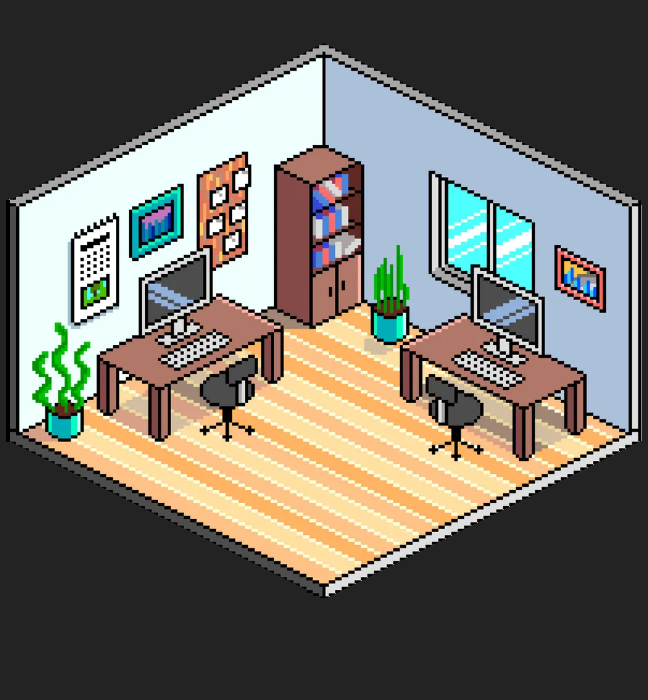
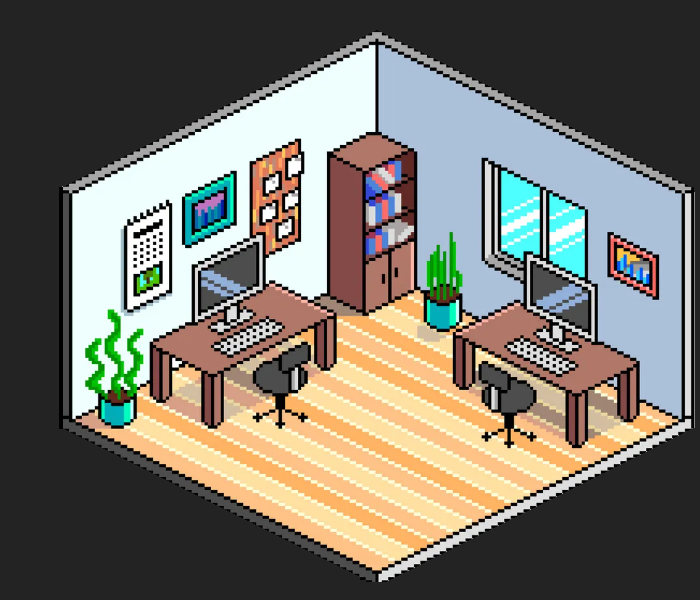
[FE] Add: 타자 게임 디버깅, 디자인

diff --git a/front/src/features/unity/components/Level1.tsx b/front/src/features/unity/components/Level1.tsx
@@ -1,0 +1,79 @@
+import React from 'react';
+import styled from 'styled-components';
+const Unity = styled.div`
+  display: flex;
+  justify-content: center;
+  align-items: center;
+  width: 60%;
+  background-color: #232323;
+  background-image: url(/img/MyOffice/level1.png);
+  background-repeat: no-repeat;
+  background-size: 90%;
+  /* background-size: 70%; */
+  background-position-y: 50%;
+`;
+const MyComputer = styled.img`
+  width: 7%;
+  height: 15%;
+  position: absolute;
+  bottom: 20vh;
+  right: 45vw;
+  :hover {
+    transform: scale(1.3);
+    transition: 0.4s ease-in-out;
+  }
+`;
+const Coin = styled.img`
+  width: 10%;
+  height: 10%;
+  position: absolute;
+  bottom: 30vh;
+  left: 50vw;
+  :hover {
+    transform: scale(1.3);
+    transition: 0.4s ease-in-out;
+  }
+`;
+const Note = styled.img`
+  width: 5%;
+  height: 7%;
+  position: absolute;
+  bottom: 25vh;
+  left: 25vw;
+  :hover {
+    transform: scale(1.3);
+    transition: 0.4s ease-in-out;
+  }
+`;
+const Calender = styled.img`
+  width: 5%;
+  height: 12%;
+  position: absolute;
+  bottom: 47vh;
+  right: 31vw;
+  /* bottom: 24vh;
+  right: 31vw; */
+  :hover {
+    transform: scale(1.3);
+    transition: 0.4s ease-in-out;
+  }
+`;
+const Level1 = () => {
+  const handleAlert = () => {
+    alert('마이페이지로');
+  };
+  return (
+    <Unity>
+      <MyComputer
+        onClick={handleAlert}
+        src="/img/MyOffice/level2computer.png"
+        alt="내 컴퓨터"
+      />
+      <Coin src="/img/coin/coin.png" />
+      <Note src="/img/MyOffice/note.png" />
+      <Calender src="/img/MyOffice/calender.png" />
+    </Unity>
+  );
+};
+
+export default Level1;

diff --git a/front/src/features/unity/components/Level3.tsx b/front/src/features/unity/components/Level3.tsx
@@ -1,0 +1,79 @@
+import React from 'react';
+import styled from 'styled-components';
+const Unity = styled.div`
+  display: flex;
+  justify-content: center;
+  align-items: center;
+  width: 60%;
+  background-color: #232323;
+  background-image: url(/img/MyOffice/level3.png);
+  background-repeat: no-repeat;
+  background-size: 90%;
+  /* background-size: 70%; */
+  background-position-y: 50%;
+`;
+const MyComputer = styled.img`
+  width: 7%;
+  height: 15%;
+  position: absolute;
+  bottom: 20vh;
+  right: 45vw;
+  :hover {
+    transform: scale(1.3);
+    transition: 0.4s ease-in-out;
+  }
+`;
+const Coin = styled.img`
+  width: 10%;
+  height: 10%;
+  position: absolute;
+  top: 21vh;
+  right: 47vw;
+  :hover {
+    transform: scale(1.3);
+    transition: 0.4s ease-in-out;
+  }
+`;
+const Note = styled.img`
+  width: 5%;
+  height: 7%;
+  position: absolute;
+  bottom: 20vh;
+  left: 40vw;
+  :hover {
+    transform: scale(1.3);
+    transition: 0.4s ease-in-out;
+  }
+`;
+const Calender = styled.img`
+  width: 5%;
+  height: 12%;
+  position: absolute;
+  bottom: 43vh;
+  left: 38vw;
+  /* bottom: 24vh;
+  right: 31vw; */
+  :hover {
+    transform: scale(1.3);
+    transition: 0.4s ease-in-out;
+  }
+`;
+const Level3 = () => {
+  const handleAlert = () => {
+    alert('마이페이지로');
+  };
+  return (
+    <Unity>
+      <MyComputer
+        onClick={handleAlert}
+        src="/img/MyOffice/level2computer.png"
+        alt="내 컴퓨터"
+      />
+      <Coin src="/img/coin/coin.png" />
+      <Note src="/img/MyOffice/note.png" />
+      <Calender src="/img/MyOffice/calender.png" />
+    </Unity>
+  );
+};
+
+export default Level3;

diff --git a/front/src/features/unity/components/Level2.tsx b/front/src/features/unity/components/Level2.tsx
@@ -1,0 +1,77 @@
+import React from 'react';
+import styled from 'styled-components';
+const Unity = styled.div`
+  display: flex;
+  justify-content: center;
+  align-items: center;
+  width: 60%;
+  background-color: #232323;
+  background-image: url(/img/MyOffice/level2.png);
+  background-repeat: no-repeat;
+  background-size: 90%;
+  /* background-size: 70%; */
+  background-position-y: 50%;
+`;
+const MyComputer = styled.img`
+  width: 7%;
+  height: 15%;
+  position: absolute;
+  bottom: 39vh;
+  right: 36vw;
+  :hover {
+    transform: scale(1.3);
+    transition: 0.4s ease-in-out;
+  }
+`;
+const Coin = styled.img`
+  width: 10%;
+  height: 10%;
+  position: absolute;
+  bottom: 20vh;
+  left: 30vw;
+  :hover {
+    transform: scale(1.3);
+    transition: 0.4s ease-in-out;
+  }
+`;
+const Note = styled.img`
+  width: 5%;
+  height: 7%;
+  position: absolute;
+  bottom: 20vh;
+  left: 43vw;
+  :hover {
+    transform: scale(1.3);
+    transition: 0.4s ease-in-out;
+  }
+`;
+const Calender = styled.img`
+  width: 5%;
+  height: 12%;
+  position: absolute;
+  bottom: 43vh;
+  right: 41vw;
+  :hover {
+    transform: scale(1.3);
+    transition: 0.4s ease-in-out;
+  }
+`;
+const Level2 = () => {
+  const handleAlert = () => {
+    alert('마이페이지로');
+  };
+  return (
+    <Unity>
+      <MyComputer
+        onClick={handleAlert}
+        src="/img/MyOffice/level2computer.png"
+        alt="내 컴퓨터"
+      />
+      <Coin src="/img/coin/coin.png" />
+      <Note src="/img/MyOffice/note.png" />
+      <Calender src="/img/MyOffice/calender.png" />
+    </Unity>
+  );
+};
+
+export default Level2;

diff --git a/front/src/features/typing/components/TypingGame.tsx b/front/src/features/typing/components/TypingGame.tsx
@@ -75,7 +75,19 @@ const TypingGame = () => {
         setCharState(changedState);
         console.log(index, '맞다');
       } else if (example[sentence][index] !== event.key) {
-        event.preventDefault();
+        if (charState.type === 1) {
+          console.log(index, '처음 틀림');
+          const changedState = JSON.parse(
+            JSON.stringify({ index: index, sentence: sentence, type: 2 }),
+          );
+          setCharState(changedState);
+          // 틀린거 또 틀렸다.
+          // 그럼 이제 안보낸다.
+          // 왜? 한번 보냈으니까
+        } else if (charState.type === 2) {
+          console.log('여러번 틀림');
+        }
+        // event.preventDefault();
       }
     } else if (event.key === 'Enter') {
       if (index === example[sentence].length) {
@@ -220,7 +232,7 @@ const TypingGame = () => {
                             </This>
                           ) : statesentence === idx && stateindex > index ? (
                             <This color={'black'}>{char}</This>
-                          ) : statesentence !== idx ? (
+                          ) : statesentence > idx ? (
                             <This color={'black'}>{char}</This>
                           ) : (
                             <This color={'gray'}>{char}</This>

diff --git a/front/src/features/unity/pages/UnityPage.tsx b/front/src/features/unity/pages/UnityPage.tsx
@@ -1,26 +1,25 @@
 import React from 'react';
 import styled from 'styled-components';
+import Level1 from '../components/Level1';
+import Level2 from '../components/Level2';
+import Level3 from '../components/Level3';
 
-
-const Unity = styled.div`
-  display: flex;
-  justify-content: center;
-  align-items: center;
-  width: 82%;
-  // background-color: white;
+const Friend = styled.div`
+  width: 21.75%;
   background-color: #232323;
-  color: aqua;
+  border: 2px solid red;
+  color: white;
 `;
-const MyRoomImg = styled.img`
-  height: 100%;
-`
 const UnityPage = () => {
-  const myLevel: number = 3
-  // const myLevel: number = 1
   return (
-    <Unity>
-      <MyRoomImg src={`/img/MyOffice/level${myLevel}.png`} alt="내 방" />
-    </Unity>
+    <>
+      {/* <Level1 /> */}
+      {/* <Level2 /> */}
+      <Level3 />
+      <Friend>
+        <div>친구든 뭐든 있는 부분</div>
+      </Friend>
+    </>
   );
 };
 
